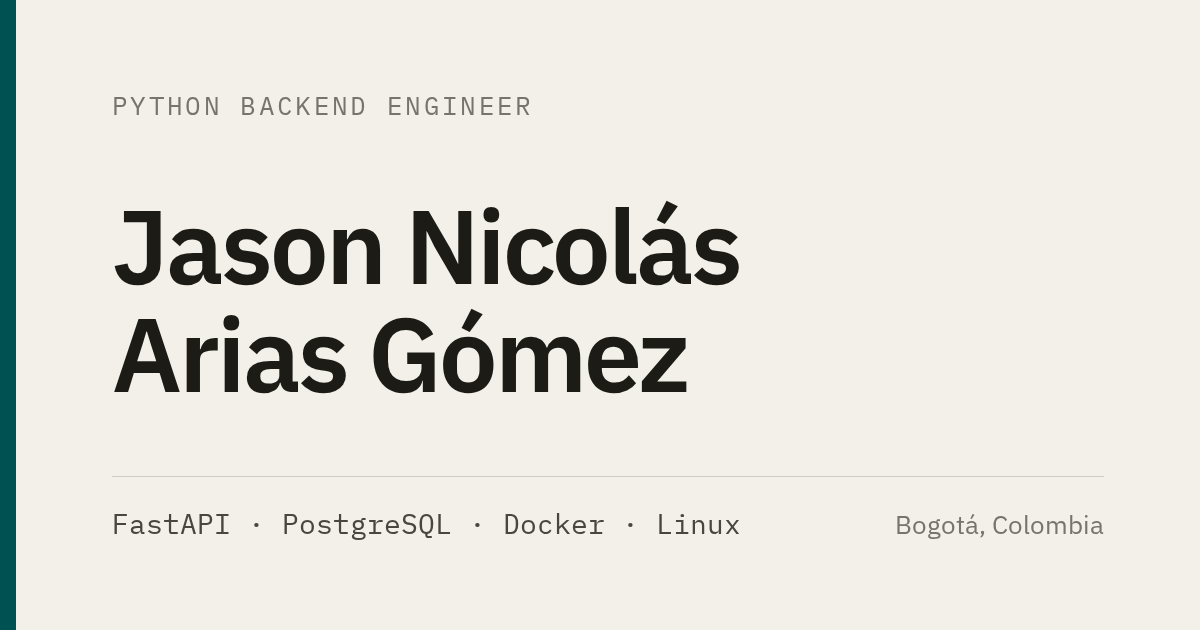
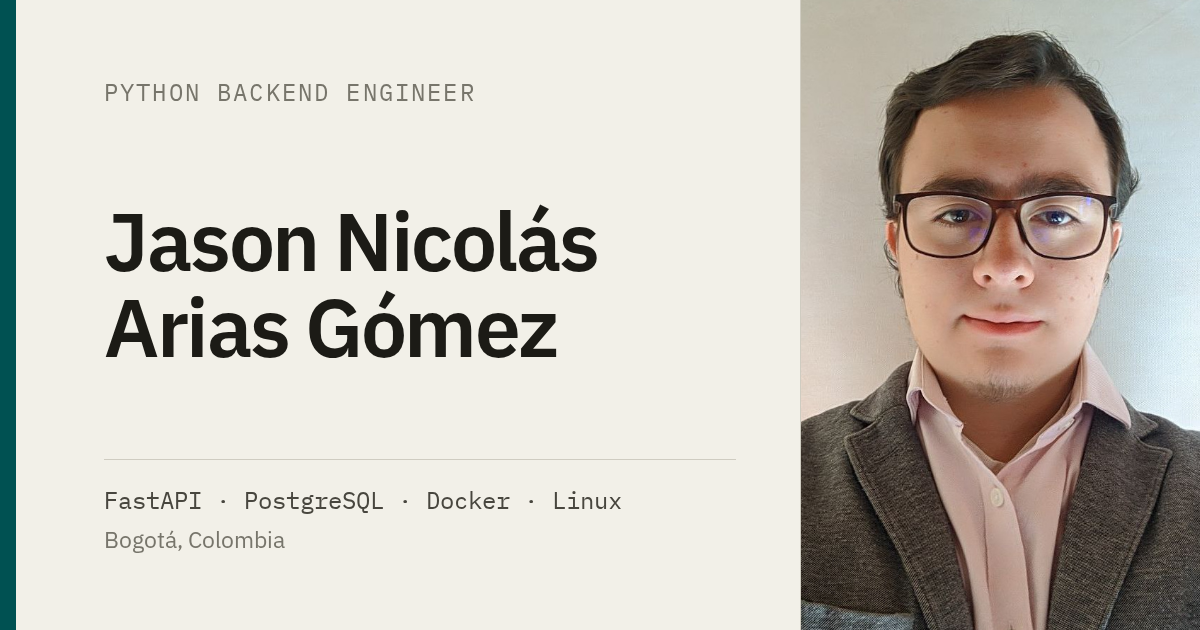
Show the two example sites, and put the portrait in the OG card
The websites service claimed two sites as built and hosted by me and showed
nothing, which is a hard sell for the one offer whose product is visual.
Both are now full-bleed screenshot headers on their cards, captured live at
1440x900 and downscaled to 1200. scripts/capture-examples.mjs re-takes them
and is deliberately not part of the build: it needs the network and those
sites are not ours to depend on, so the images are committed and builds stay
offline and deterministic.

The OG cards were type-only. A face is what makes a link preview get opened,
and WhatsApp is the contact channel for services, so the portrait takes the
right third of the 1200x630 card.

Two drifts found while doing it. build-brand-assets.mjs kept its own copy of
the role string, so the Spanish card still said "Ingeniero backend de Python"
after ui.ts was corrected; it now reads site.role out of ui.ts and fails if
it cannot. And a comment claimed a vertical crop that never happens -- the
4:5 source is taller than the slot, so cover fits the height and trims the
sides.

sizes was guessed at 26rem and wrong: the card image is 310-650px wide in one
column and caps at 460px in two, so the browser was picking a 415px candidate
for a 460px box. Measured at seven viewport widths and set from that.

shot.mjs could not see any of this. A fullPage screenshot never moves the
viewport, so loading="lazy" images below the fold photograph as empty boxes --
[…]

diff --git a/src/i18n/ui.ts b/src/i18n/ui.ts
@@ -100,6 +100,7 @@ export const ui = {
     'svc.sites.build': 'Design and build',
     'svc.sites.hosting': 'Hosting and upkeep',
     'svc.sites.examples': 'Built and hosted by me',
+    'svc.sites.shot': 'Home page of',
     'svc.sites.visit': 'Visit',
 
     'svc.classes': 'Classes',
@@ -283,6 +284,7 @@ export const ui = {
     'svc.sites.build': 'Diseño y construcción',
     'svc.sites.hosting': 'Hosting y mantenimiento',
     'svc.sites.examples': 'Construidos y hospedados por mí',
+    'svc.sites.shot': 'Página de inicio de',
     'svc.sites.visit': 'Visitar',
 
     'svc.classes': 'Clases',
